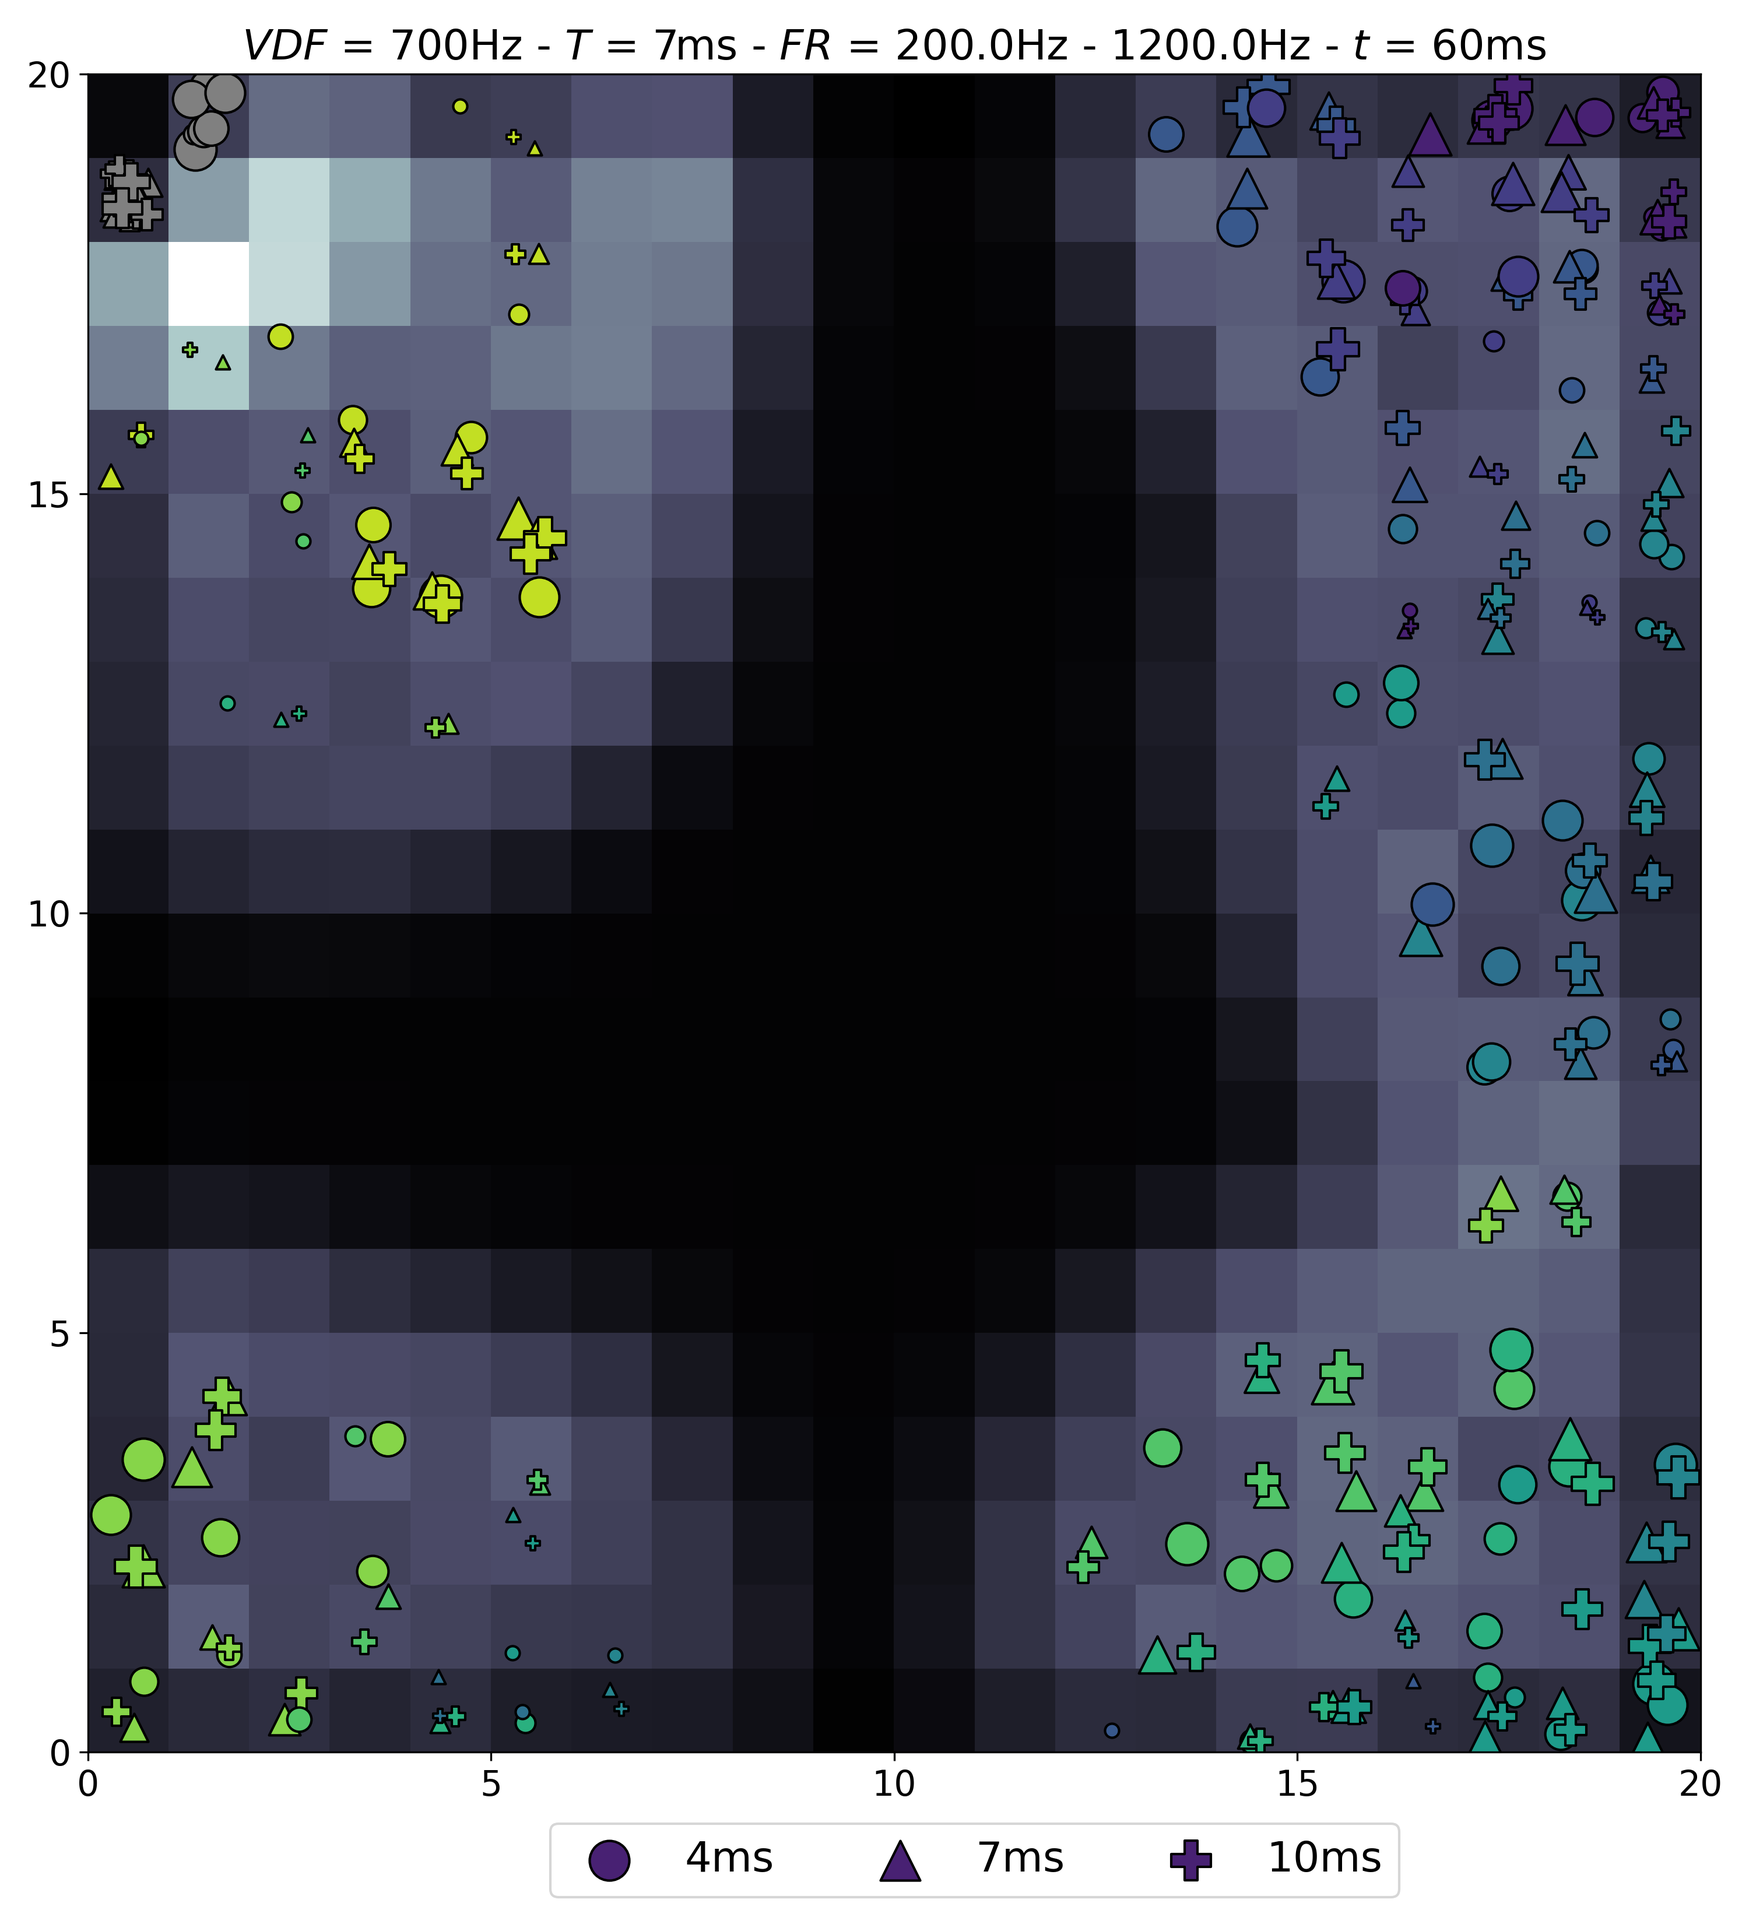
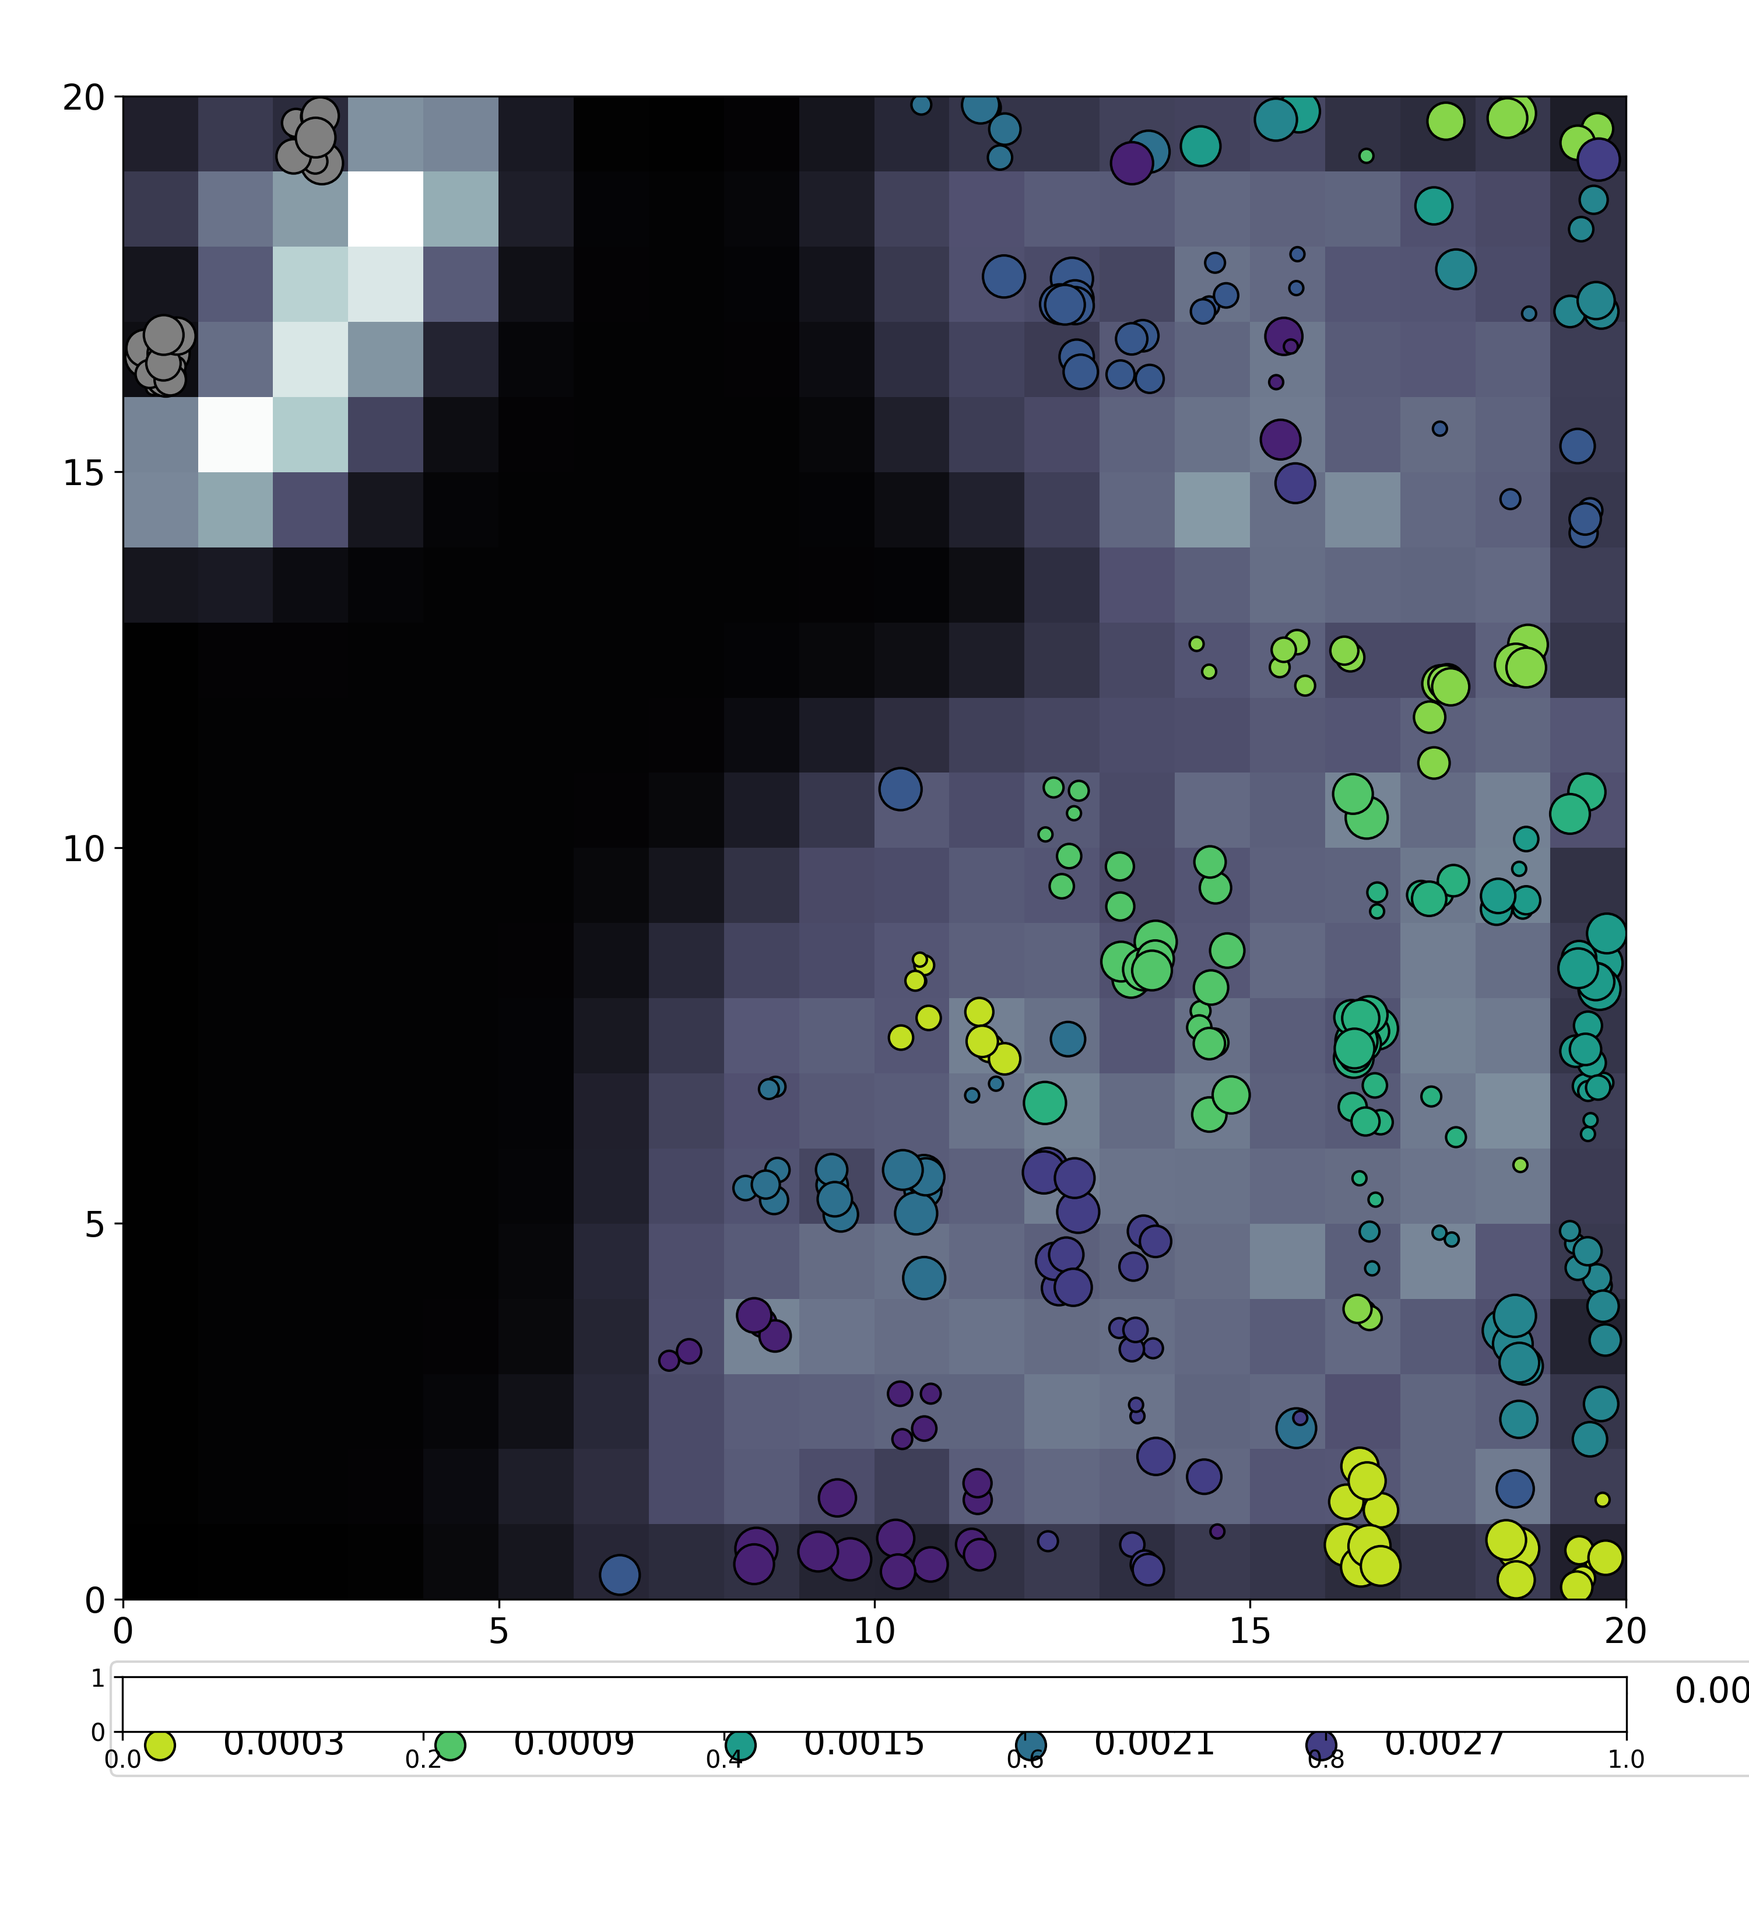
Functions for ploting T cases are ready. TODO: Send vector methods to another module

diff --git a/ViscoSOM.py b/ViscoSOM.py
@@ -1,3 +1,4 @@
+from matplotlib import gridspec
 import constants
 from Functions import Preprocessing
 from pathlib import Path
@@ -5,7 +6,6 @@ import pandas as pd
 import numpy as np
 import matplotlib.pyplot as plt
 import matplotlib.colors as mcolors
-from matplotlib.gridspec import GridSpec
 from minisom import MiniSom
 
 
@@ -178,6 +178,127 @@ def dict_for_som(analysis_vector,
   # Return the dictionary containing the feature vectors
   return feature_vector_dict
 
+# Ploting functions
+
+def plot_som(legend=True,
+             umatrix_colorbar=False,
+             ticks=True,
+             title=True,
+             save=True):
+    figsize = (10, 11) if legend else (15,13) if legend and umatrix_colorbar else (10, 10)
+    bottom_adjust = 0.1 if legend else 0.05
+
+    plt.figure (figsize=figsize)
+    plt.subplots_adjust (left=0.05, right=0.95, bottom=bottom_adjust, top=0.95)
+    p = plt.pcolor (som.distance_map ().T, cmap=cmapcolor, alpha=alpha)  # Store the plot object
+
+    if umatrix_colorbar:
+        plt.colorbar (p)
+
+    unique_values = np.unique (target1)
+    color_vals = cmap_modified (np.arange (len (unique_values)) / len (unique_values))  # Vectorize color assignment
+    random_offsets_x = np.random.rand (len (target1)) - 0.5  # Pre-compute random offsets (x)
+    random_offsets_y = np.random.rand (len (target1)) - 0.5  # Pre-compute random offsets (y)
+
+    for idx, c in enumerate (unique_values):
+        idx_target = target1 == c
+        size_values = (target2[idx_target] - np.min (target2[idx_target])) / \
+                      (np.max (target2[idx_target]) - np.min (target2[idx_target])) * 300
+
+        plt.scatter (w_x[idx_target] + 0.5 + random_offsets_x[idx_target] * 0.5,
+                     w_y[idx_target] + 0.5 + random_offsets_y[idx_target] * 0.8,
+                     s=size_values, marker='o', color=color_vals[idx], label=f'{c}', alpha=1, edgecolors='black',
+                     linewidths=1)
+
+    T = 4 if n_buff == 384 else 7 if n_buff == 672 else 10
+
+    ti = fr'$VDF$ = {VDF}Hz - $T$ = {T}ms - $FR$ = {min_freq}Hz - {max_freq}Hz - $t$ = {time_value[0]}ms'
+
+    if title:
+        plt.title (f'{ti}', fontsize='xx-large')
+
+    if legend:
+        plt.legend (loc='upper center', bbox_to_anchor=(0.55, -0.03), ncol=6, fontsize='large')
+
+    if ticks:
+        plt.yticks (range (0, n_neurons + 1, 5), fontsize='x-large')
+        plt.xticks (range (0, n_neurons + 1, 5), fontsize='x-large')
+    else:
+        plt.yticks ([])
+        plt.xticks ([])
+
+    plt.tight_layout ()
+
+    if save:
+        plt.savefig ('SOM_nolegend.png', dpi=300)
+    plt.show ()
+    plt.close ()
+
+def plot_som_colorbar_legend(legend=True,
+             umatrix_colorbar=False,
+             ticks=True,
+             title=True,
+             save=True):
+
+    figsize = (10, 11) if legend else (11, 11) if legend and umatrix_colorbar else (10, 10)
+    bottom_adjust = 0.1 if legend else 0.05
+
+    fig = plt.figure (figsize=figsize)
+
+    # Adjust the height of the colorbar subplot directly
+    gs = gridspec.GridSpec (2, 1, height_ratios=[11, 0.4],
+                            hspace=0.1, left=0.07, right=0.93, bottom=bottom_adjust, top=0.95)
+
+    ax_main = plt.subplot(gs[0])
+    ax_colorbar = plt.subplot(gs[1])
+
+    ax_main.set_aspect('equal')
+
+    p = ax_main.pcolor(som.distance_map().T, cmap=cmapcolor, alpha=alpha)
+
+    if umatrix_colorbar:
+        colorbar = plt.colorbar(p, orientation='horizontal', cax=ax_colorbar)
+        colorbar.ax.tick_params (labelsize='x-large')
+
+    unique_values = np.unique(target1)
+    color_vals = cmap_modified(np.arange(len(unique_values)) / len(unique_values))
+    random_offsets_x = np.random.rand(len(target1)) - 0.5
+    random_offsets_y = np.random.rand(len(target1)) - 0.5
+
+    for idx, c in enumerate(unique_values):
+        idx_target = target1 == c
+        size_values = (target2[idx_target] - np.min(target2[idx_target])) / \
+                      (np.max(target2[idx_target]) - np.min(target2[idx_target])) * 300
+
+        ax_main.scatter(w_x[idx_target] + 0.5 + random_offsets_x[idx_target] * 0.5,
+                        w_y[idx_target] + 0.5 + random_offsets_y[idx_target] * 0.8,
+                        s=size_values, marker='o', color=color_vals[idx], label=f'{c}', alpha=1, edgecolors='black',
+                        linewidths=1)
+
+    T = 4 if n_buff == 384 else 7 if n_buff == 672 else 10
+    ti = fr'$VDF$ = {VDF}Hz - $T$ = {T}ms - $FR$ = {min_freq}Hz - {max_freq}Hz - $t$ = {time_value[0]}ms'
+
+    if title:
+        ax_main.set_title(f'{ti}', fontsize='xx-large')
+
+    if legend:
+        bbox_to_anchor = (0.55, -0.03) if not umatrix_colorbar else (0.5, -0.12)
+        ax_main.legend (loc='upper center', bbox_to_anchor=bbox_to_anchor, ncol=6, fontsize='x-large')
+
+    if ticks:
+        ax_main.set_yticks(range(0, n_neurons + 1, 5))
+        ax_main.set_xticks(range(0, n_neurons + 1, 5))
+        ax_main.tick_params(axis='both', which='major', labelsize='x-large')
+    else:
+        ax_main.set_yticks([])
+        ax_main.set_xticks([])
+
+    if save:
+        plt.savefig('SOM.png', dpi=300)
+    plt.show()
+    plt.close()
+
+
 # %%
 pre_p = Preprocessing (n_fft=4096)
 
@@ -194,26 +315,18 @@ laplace_variations_analysis_vector = pre_p.analyze_spectrum (path_to_dataset=dir
                                                              vdf_frequencies=vdf_frequencies)
 
 # %%
-# Parameters of the pipeline
+"""Set the parameters of the data pipeline"""
 
-n_fft = 4096  # Window size of the n_fft
-time_value = [60]  # time t at which peak picking is performed
+n_fft = 4096  # Window size of the STFT
+time_value = [60]  # Time t at which peak picking is performed
 n_buff = 672  # integration time T
-VDF = 700
+VDF = 12000 # Viscoelastically Damped Frequency
 frequency_range = 1000 / 2  # FR of the analysis Freq. Range
-# Specify the frequency range
 min_freq = VDF - frequency_range
 max_freq = VDF + frequency_range
 
-# create_v = CreateVector (analysis_vector=laplace_variations_analysis_vector,
-#                          n_buff=n_buff,
-#                          VDF=VDF,
-#                          min_freq=min_freq,
-#                          max_freq=max_freq)
-
-
-feature_vector_dataframe = pd.DataFrame (create_v.dict_for_som (laplace_variations_analysis_vector,
-                                                       ht_analysis=False,
+feature_vector_dataframe = pd.DataFrame (dict_for_som (laplace_variations_analysis_vector,
+                                                       ht_analysis=False, # Set to True to plot ONLY one integration time
                                                        n_buff=n_buff,
                                                        VDF=VDF,
                                                        min_freq=min_freq,
@@ -272,181 +385,7 @@ colors[0] = [0.5, 0.5, 0.5, 1.0]  # Gray color for the 0 value
 # Create a new colormap with the modified colors
 cmap_modified = mcolors.ListedColormap (colors)
 
+# plot_som_colorbar_legend(title=False, umatrix_colorbar=False, legend=False, save=False)
+plot_som (title=False, umatrix_colorbar=False, save=True, legend=True)
 
-# %%
-def plot_som(legend=True,
-             umatrix_colorbar=False,
-             ticks=True,
-             title=True,
-             save=True):
-    figsize = (10, 11) if legend else (10, 10)
-    bottom_adjust = 0.1 if legend else 0.05
-
-    plt.figure (figsize=figsize)
-    plt.subplots_adjust (left=0.05, right=0.95, bottom=bottom_adjust, top=0.95)
-    p = plt.pcolor (som.distance_map ().T, cmap=cmapcolor, alpha=alpha)  # Store the plot object
-
-    if umatrix_colorbar:
-        plt.colorbar (p)  # Use the plot object for the colorbar
-
-    unique_values = np.unique (target1)
-    color_vals = cmap_modified (np.arange (len (unique_values)) / len (unique_values))  # Vectorize color assignment
-    random_offsets_x = np.random.rand (len (target1)) - 0.5  # Pre-compute random offsets (x)
-    random_offsets_y = np.random.rand (len (target1)) - 0.5  # Pre-compute random offsets (y)
-
-    for idx, c in enumerate (unique_values):
-        idx_target = target1 == c
-        size_values = (target2[idx_target] - np.min (target2[idx_target])) / \
-                      (np.max (target2[idx_target]) - np.min (target2[idx_target])) * 300
-
-        plt.scatter (w_x[idx_target] + 0.5 + random_offsets_x[idx_target] * 0.5,
-                     w_y[idx_target] + 0.5 + random_offsets_y[idx_target] * 0.8,
-                     s=size_values, marker='o', color=color_vals[idx], label=f'{c}', alpha=1, edgecolors='black',
-                     linewidths=1)
-
-    T = 4 if n_buff == 384 else 7 if n_buff == 672 else 10
-
-    ti = fr'$VDF$ = {VDF}Hz - $T$ = {T}ms - $FR$ = {min_freq}Hz - {max_freq}Hz - $t$ = {time_value[0]}ms'
-
-    if title:
-        # plt.title(f'{VDF}Hz - FR: {min_freq}Hz - {max_freq}Hz - t = {time_value[0]}ms', fontsize='xx-large')
-        plt.title (f'{ti}', fontsize='xx-large')
-
-    if legend:
-        plt.legend (loc='upper center', bbox_to_anchor=(0.55, -0.03), ncol=6, fontsize='large')
-
-    if ticks:
-        plt.yticks (range (0, n_neurons + 1, 5), fontsize='x-large')
-        plt.xticks (range (0, n_neurons + 1, 5), fontsize='x-large')
-    else:
-        plt.yticks ([])
-        plt.xticks ([])
-
-    plt.tight_layout ()
-
-    if save:
-        plt.savefig ('SOM.png', dpi=300)
-    plt.show ()
-    plt.close ()
-
-plot_som ()
-
-#%%
-
-def plot_integration_time(legend=True,
-                          umatrix_colorbar=False,
-                          ticks=True,
-                          title=True,
-                          save=True,
-                          shape=False):
-
-    figsize = (10, 11) if legend else (10, 10)
-    bottom_adjust = 0.1 if legend else 0.05
-
-    plt.figure(figsize=figsize)
-    plt.subplots_adjust(left=0.05, right=0.95, bottom=bottom_adjust, top=0.95)
-    p = plt.pcolor(som.distance_map().T, cmap=cmapcolor, alpha=alpha)  # Store the plot object
-
-    if umatrix_colorbar:
-        plt.colorbar(p)  # Use the plot object for the colorbar
-
-    if shape:
-
-        markers = ['o', '^', 'P']
-        marker_labels = {
-            markers[0]: '4ms',
-            markers[1]: '7ms',
-            markers[2]: '10ms'
-        }
-        unique_values = np.unique(target1)
-
-        for idx, c in enumerate (unique_values):
-            idx_target = target1 == c
-            color = cmap_modified (idx / len (unique_values))
-
-            # Define size based on target2 values (scale and normalize)
-            size_values = (target2[idx_target] - np.min (target2[idx_target])) / \
-                          (np.max (target2[idx_target]) - np.min (
-                              target2[idx_target])) * 300  # Adjust max_size as needed
-
-            # Set marker based on target3 value
-            for i, t in enumerate (target3[idx_target]):
-                if t == 384:
-                    marker = markers[0]
-                    label = f'{marker} 4ms'
-                elif t == 672:
-                    marker = markers[1]
-                    label = f'{marker} 7ms'
-                elif t == 960:
-                    marker = markers[2]
-                    label = f'{marker} 10ms'
-                else:
-                    marker = 'o'  # Default marker if target3 doesn't match any condition
-
-                plt.scatter (w_x[idx_target][i] + .5 + (np.random.rand () - .5) * .5,
-                             w_y[idx_target][i] + .5 + (np.random.rand () - .5) * .8,
-                             s=size_values[i], marker=marker, color=color, label=marker_labels[marker], alpha=1,
-                             edgecolors='black',
-                             linewidths=1)
-
-        T = 4 if n_buff == 384 else 7 if n_buff == 672 else 10
-
-        ti = fr'$VDF$ = {VDF}Hz - $T$ = {T}ms - $FR$ = {min_freq}Hz - {max_freq}Hz - $t$ = {time_value[0]}ms'
-
-    else:
-
-        unique_values = np.unique(target3)
-        colors = ['red', 'blue', 'yellow']
-
-
-        for idx, c in enumerate(unique_values):
-            idx_target = target3 == c
-
-            if c == 384:
-                label = f'4ms'
-            elif c == 672:
-                label = f'7ms'
-            elif c == 960:
-                label = f'10ms'
-            else:
-                marker = 'o'  # Default marker if target3 doesn't match any condition
-
-            color = colors[idx]
-
-            size_values = (target2[idx_target] - np.min(target2[idx_target])) / \
-                          (np.max(target2[idx_target]) - np.min(target2[idx_target])) * 300
-
-            plt.scatter(w_x[idx_target] + .5 + (np.random.rand(np.sum(idx_target)) - .5) * .5,
-                        w_y[idx_target] + .5 + (np.random.rand(np.sum(idx_target)) - .5) * .8,
-                        s=size_values, marker='o', color=color, label=label, alpha=1, edgecolors='black', linewidths=1)
-
-            ti = fr'$VDF$ = {VDF}Hz - $T$ comparison - $FR$ = {min_freq}Hz - {max_freq}Hz - $t$ = {time_value[0]}ms'
-
-    if title:
-        plt.title(f'{ti}', fontsize='xx-large')
-
-    if legend:
-        if shape:
-            # Create legend with custom labels
-            handles, labels = plt.gca ().get_legend_handles_labels ()
-            by_label = dict (zip (labels, handles))
-            plt.legend (by_label.values (), by_label.keys (), loc='upper center', bbox_to_anchor=(0.55, -0.03), ncol=3,
-                        fontsize='xx-large')
-        else:
-            plt.legend(loc='upper center', bbox_to_anchor=(0.55, -0.03), ncol=6, fontsize='xx-large')
-
-    if ticks:
-        plt.yticks(range(0, n_neurons + 1, 5), fontsize='x-large')
-        plt.xticks(range(0, n_neurons + 1, 5), fontsize='x-large')
-    else:
-        plt.yticks([])
-        plt.xticks([])
-
-    plt.tight_layout()
-
-    if save:
-        plt.savefig('SOM.png', dpi=300)
-    plt.show()
-    plt.close()
-
-plot_integration_time(shape=True, legend=True)
+plot_som_colorbar_legend(title=False, umatrix_colorbar=False, legend=True, save=True)

diff --git a/Functions.py b/Functions.py
@@ -1,7 +1,6 @@
 import librosa
 from scipy.signal import find_peaks
 import constants as c
-from Functions import Preprocessing
 import numpy as np
 
 
